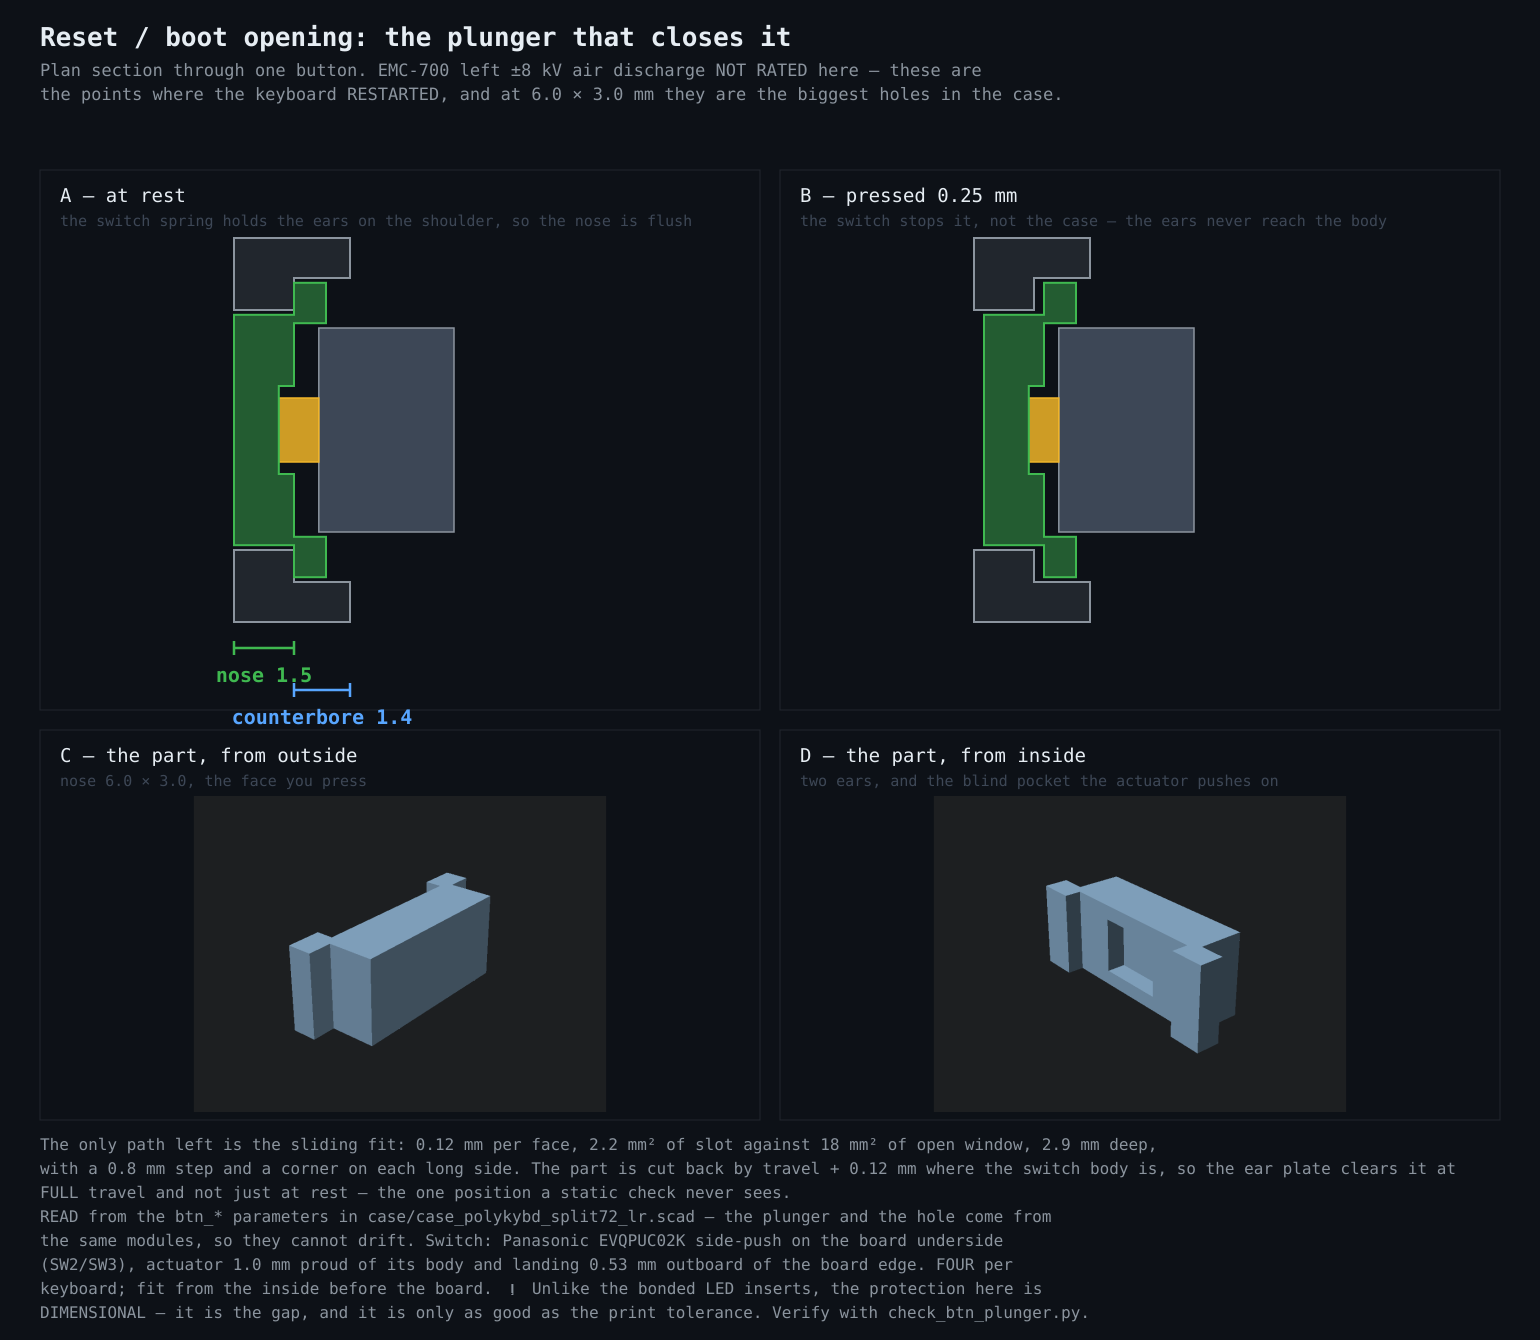
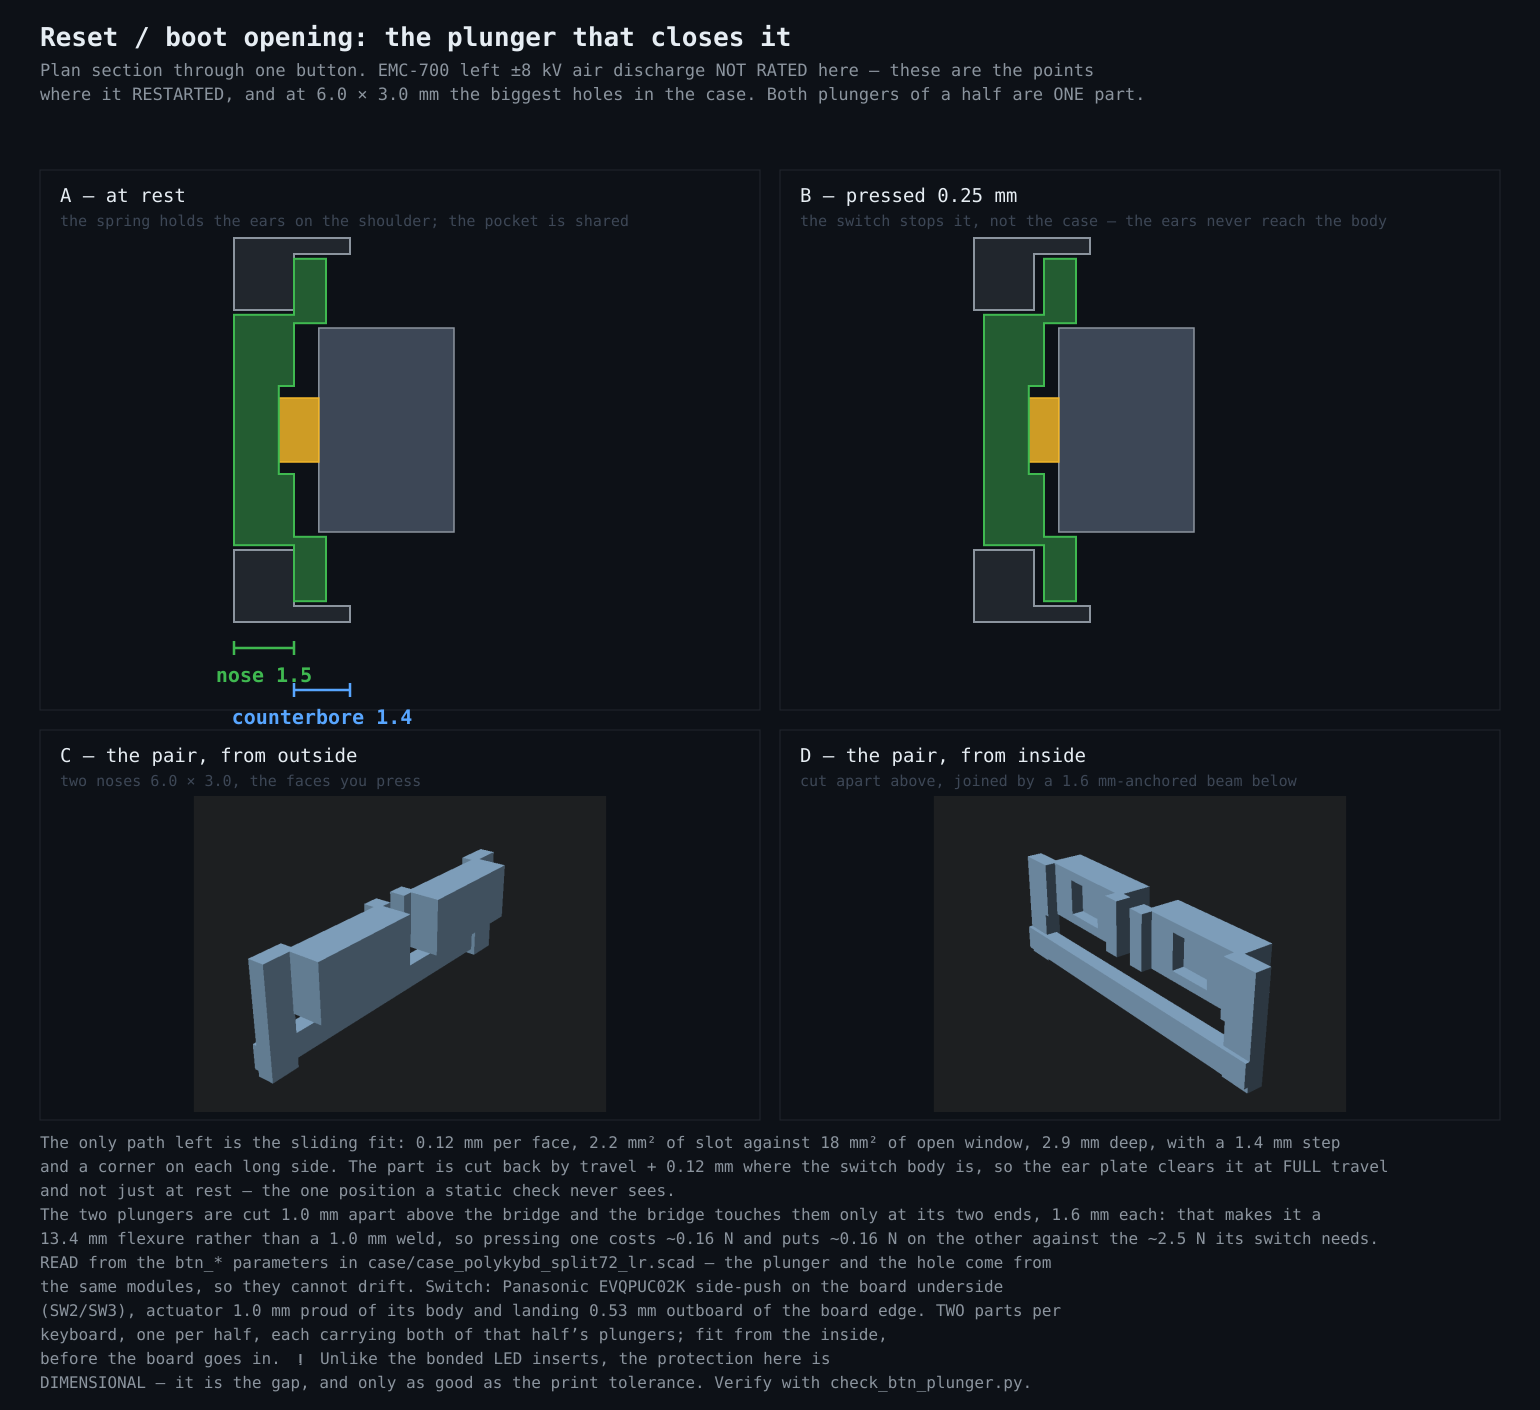
Case: bigger counterbore, and both plungers as one bridged part
Three changes to the reset/boot plungers.

The counterbore is bigger: ears 0.8 -> 1.4 a side, which more than
doubles the retention (6.7 mm3 of interference when pushed out, against
2.3). At that width the two stadiums - 8.8 mm on a 7.8 mm pitch - merge
into one pocket, which is deliberate and is what makes the third change
possible.

It also reaches 2.6 mm BELOW the opening. Downward only: the opening's
top is already 0.6 mm above the ledge the board rests on, so growing it
upward would undercut the board support, while below it there is 7 mm of
ledge doing nothing.

And both plungers of a half are now ONE part, joined along the bottom of
that merged pocket, so they go in together - two parts per keyboard
instead of four loose ones, each impossible to fit the wrong way round.

The bridge has to be a flexure and not a weld, because reset and boot
must work independently: pressing both at once is the RP2040 bootloader
gesture. The two plungers sit 1.0 mm apart, so a bridge between them
would couple them rigidly; instead it runs along the bottom and is
attached only at the two outer ends, 1.6 mm each, which makes it a
fixed-guided beam of 13.4 mm. At E = 2500 MPa that is 0.16 N of extra
press force and 8.4 MPa of bending stress - against ~2.5 N to actuate the
other switch and ~65 MPa flexural strength, so 16x and 8x. The ears are
still cut 1.0 mm apart even though the pocket behind them is continuous.

E and the flexural strength are material properties the model cannot
[…]

diff --git a/RoHS/btn-plunger.py b/RoHS/btn-plunger.py
@@ -4,9 +4,9 @@ REPO = subprocess.run(['git','rev-parse','--show-toplevel'], cwd='/home/user/Pol
 sys.path.insert(0, f'{REPO}/.claude/skills/explain-geometry-figure')
 from figlib import Fig, C
 
-# Two 900x690 OpenSCAD renders of parts/case/btn_plungers.scad (part="one").
-# Build artefacts, not committed - point RENDERS at wherever they were made.
-#   pG outside  14,-17,11,0,0,0      pH inside  -14,-17,11,0,0,0
+# Two 900x690 OpenSCAD renders of the exported btn_plungers.stl, recentred on
+# the pair. Build artefacts, not committed - point RENDERS at where they were
+# made.  pG outside 20,-26,16,0,0,0      pH inside -20,-26,16,0,0,0
 S = os.environ.get('RENDERS', '/tmp/btn-renders')
 
 # ---- geometry, READ from the case parameters -------------------------------
@@ -21,6 +21,8 @@ def P(name):
 
 wall, clr, ledge = P('case_wall_thickness'), P('pcb_clearance'), P('pcb_edge_width')
 gap, ear, ear_t = P('btn_slide_gap'), P('btn_ear'), P('btn_ear_t')
+under, sep = P('btn_under'), P('btn_sep')
+br_t, br_h, post = P('btn_bridge_t'), P('btn_bridge_h'), P('btn_post')
 travel, act_reach = P('btn_travel'), P('btn_act_reach')
 body_front, body_w, act_w = P('btn_body_front'), P('btn_body_w'), P('btn_act_w')
 
@@ -37,10 +39,10 @@ print(f'  nose {IN_HI - OUT:.2f} long, ears {ear_t} thick, pocket {act_reach} de
 print(f'  actuator tip at {ACT:+.2f}, switch body front at {BODY:+.2f}, travel {travel}')
 print(f'  gap area {2 * (W + 3.0) * gap:.2f} mm2 against {W * 3.0:.1f} mm2 open')
 
-f = Fig(1540, 1340)
+f = Fig(1540, 1410)
 f.title('Reset / boot opening: the plunger that closes it',
-        'Plan section through one button. EMC-700 left ±8 kV air discharge NOT RATED here — these are',
-        'the points where the keyboard RESTARTED, and at 6.0 × 3.0 mm they are the biggest holes in the case.')
+        'Plan section through one button. EMC-700 left ±8 kV air discharge NOT RATED here — these are the points',
+        'where it RESTARTED, and at 6.0 × 3.0 mm the biggest holes in the case. Both plungers of a half are ONE part.')
 
 
 EXT = 4.8      # how much case to draw either side of the opening
@@ -81,7 +83,7 @@ def draw(A, dx, show_dims):
 
 SC = 40
 f.panel(40, 170, 720, 540, 'A — at rest',
-        'the switch spring holds the ears on the shoulder, so the nose is flush')
+        'the spring holds the ears on the shoulder; the pocket is shared')
 A = Fig.frame(scale=SC, ox=300, oy=430)
 draw(A, 0.0, True)
 
@@ -90,21 +92,27 @@ f.panel(780, 170, 720, 540, f'B — pressed {travel} mm',
 B = Fig.frame(scale=SC, ox=1040, oy=430)
 draw(B, travel, False)
 
-f.panel(40, 730, 720, 390, 'C — the part, from outside', 'nose 6.0 × 3.0, the face you press')
+f.panel(40, 730, 720, 390, 'C — the pair, from outside',
+        'two noses 6.0 × 3.0, the faces you press')
 f.image(f'{S}/pG.png', 70, 796, 660, 316, clip=(40, 730, 720, 390))
-f.panel(780, 730, 720, 390, 'D — the part, from inside',
-        'two ears, and the blind pocket the actuator pushes on')
+f.panel(780, 730, 720, 390, 'D — the pair, from inside',
+        f'cut apart above, joined by a {post} mm-anchored beam below')
 f.image(f'{S}/pH.png', 810, 796, 660, 316, clip=(780, 730, 720, 390))
 
 f.footer(f'The only path left is the sliding fit: {gap} mm per face, {2*(W+3.0)*gap:.1f} mm² of slot against '
-         f'{W*3.0:.0f} mm² of open window, {IN_LO-OUT:.1f} mm deep,',
-         f'with a {ear} mm step and a corner on each long side. The part is cut back by travel + {gap} mm where '
-         'the switch body is, so the ear plate clears it at',
-         'FULL travel and not just at rest — the one position a static check never sees.',
+         f'{W*3.0:.0f} mm² of open window, {IN_LO-OUT:.1f} mm deep, with a {ear} mm step',
+         'and a corner on each long side. The part is cut back by travel + '
+         f'{gap} mm where the switch body is, so the ear plate clears it at FULL travel',
+         'and not just at rest — the one position a static check never sees.',
+         f'The two plungers are cut {sep} mm apart above the bridge and the bridge touches them only at its two '
+         f'ends, {post} mm each: that makes it a',
+         f'13.4 mm flexure rather than a 1.0 mm weld, so pressing one costs ~0.16 N and puts ~0.16 N on the other '
+         'against the ~2.5 N its switch needs.',
          'READ from the btn_* parameters in case/case_polykybd_split72_lr.scad — the plunger and the hole come from',
          'the same modules, so they cannot drift. Switch: Panasonic EVQPUC02K side-push on the board underside',
-         '(SW2/SW3), actuator 1.0 mm proud of its body and landing 0.53 mm outboard of the board edge. FOUR per',
-         'keyboard; fit from the inside before the board. ⚠ Unlike the bonded LED inserts, the protection here is',
-         'DIMENSIONAL — it is the gap, and it is only as good as the print tolerance. Verify with check_btn_plunger.py.')
+         '(SW2/SW3), actuator 1.0 mm proud of its body and landing 0.53 mm outboard of the board edge. TWO parts per',
+         'keyboard, one per half, each carrying both of that half\u2019s plungers; fit from the inside,',
+         'before the board goes in. ⚠ Unlike the bonded LED inserts, the protection here is',
+         'DIMENSIONAL — it is the gap, and only as good as the print tolerance. Verify with check_btn_plunger.py.')
 f.save(f'{REPO}/RoHS/btn-plunger.svg'); f.png()
 print('figure written')

diff --git a/parts/case/check_btn_plunger.py b/parts/case/check_btn_plunger.py
@@ -50,6 +50,15 @@ def param(name):
     return float(m.group(1))
 
 
+def pair(name):
+    """A two-element list parameter, e.g. btn_c = [ 83.69, 91.49 ];"""
+    src = open(os.path.join(HERE, CASE_SCAD), encoding='utf-8').read()
+    m = re.search(rf'^{name}\s*=\s*\[\s*([-0-9.]+)\s*,\s*([-0-9.]+)\s*\]\s*;', src, re.M)
+    if not m:
+        raise SystemExit(f'{name} not found in {CASE_SCAD}')
+    return float(m.group(1)), float(m.group(2))
+
+
 def load_stl(path):
     tris, cur = [], []
     for ln in open(path, encoding='ascii', errors='replace'):
@@ -142,6 +151,59 @@ def main():
     whole = run_scad('translate([%f,0,0]) btn_plunger();' % -travel)
     check(abs(clash - whole) <= EPS, 'it clears the switch body at full travel',
           f'{whole - clash:.6f} mm3 of the part is inside the switch envelope')
+
+    # --- the bridge -------------------------------------------------------
+    # The two plungers ship as ONE part so they fit in a single go, which only
+    # works if the thing joining them is a FLEXURE and not a weld: reset and
+    # boot have to work independently (pressing both at once is the RP2040
+    # bootloader gesture). Two things make it one, and both are measured here
+    # rather than argued - the plungers must be cut apart above the bridge, and
+    # the bridge must touch them only at its two ends.
+    c0, c1 = pair('btn_c')
+    # ⚠ btn_z0 is an EXPRESSION in the scad (pcb_edge_height - 0.4), so it is
+    # recomputed here rather than read; param() only sees numeric literals.
+    z0, h = param('pcb_edge_height') - 0.4, param('btn_h')
+    post, half = param('btn_post'), 0.5 + param('btn_r') + param('btn_ear')
+    mid = (c0 + c1) / 2
+    # a thin slab on the separation plane, over the plungers' own height
+    sep = param('btn_sep')
+    slab = (f'translate([0,0,{z0 - 0.2}]) linear_extrude({h + 0.4}) '
+            f'translate([0,{mid}]) square([600,{sep - 0.01}], center=true)')
+    joined = run_scad(f'intersection() {{ btn_plunger(); {slab}; }}')
+    check(joined <= EPS,
+          f'the two plungers are cut apart above the bridge ({sep} mm)',
+          f'{joined:.6f} mm3 bridging them at the separation plane')
+    # ⚠ control for BOTH slab checks: the counterbore is continuous across that
+    # plane, so if the slab were mislaid or the boolean broken this reads 0 too.
+    ctrl = run_scad(f'intersection() {{ btn_counterbore(); {slab}; }}')
+    check(ctrl > 1.0, 'control: the slab does find the counterbore there',
+          f'{ctrl:.3f} mm3')
+
+    # and a slab between the bridge's top and the plungers' bottom, in the span
+    # between the posts: anything here is the bridge touching what it must not.
+    bz = z0 - param('btn_under') + 0.4 + param('btn_bridge_h')
+    span_lo, span_hi = c0 - half + post, c1 + half - post
+    free = run_scad(f'intersection() {{ btn_plunger(); '
+                    f'translate([0,0,{bz + 0.05}]) linear_extrude({z0 - bz - 0.1}) '
+                    f'translate([0,{mid}]) square([600,{span_hi - span_lo}], center=true); }}')
+    check(free <= EPS, 'the bridge is free of them between its posts',
+          f'{free:.6f} mm3 of contact along the span')
+
+    # The flexure, from the geometry rather than from intent. E and the flexural
+    # strength are material properties this cannot measure, so the numbers are
+    # REPORTED with the assumption named, not asserted.
+    span = span_hi - span_lo
+    t, bh = param('btn_bridge_t'), param('btn_bridge_h')
+    E = 2500.0            # MPa, a typical SLA resin
+    F = 12 * E * (bh * t ** 3 / 12.0) * travel / span ** 3
+    sig = 6 * E * (t / 2) * travel / span ** 2
+    print()
+    print(f'  NOTE      bridge: {span:.2f} mm free span, {t} x {bh} mm section, '
+          f'{travel} mm deflection.')
+    print(f'            At E = {E:.0f} MPa that is {F:.2f} N of extra force and '
+          f'{sig:.1f} MPa of bending stress,')
+    print(f'            against ~2.5 N to actuate the other switch and ~65 MPa '
+          f'flexural strength.')
 
     # What is left as an ESD path, reported not asserted.
     print()

diff --git a/RoHS/CE-document-status.md b/RoHS/CE-document-status.md
@@ -783,11 +783,49 @@ flush — **the nose length is not a free choice**, it is the wall thickness.
 | | |
 |---|---|
 | Opening | **6.0 × 3.0 mm**, 2.9 mm deep (`btn_r` = 2.5 offset on a ~1.0 mm stroke) |
-| Counterbore | 7.6 mm (`btn_ear` = 0.8 a side), in the ledge only |
+| Counterbore | **8.8 mm** (`btn_ear` = 1.4 a side) **and 2.6 mm below** the opening (`btn_under`), in the ledge only |
 | Sliding fit | **0.12 mm** per face (`btn_slide_gap`) |
 | Travel | **0.25 mm** (`btn_travel`), limited by the switch, never by the case |
-| The part | 7.4 × 2.3 × 2.8 mm, **30.7 mm³**; four per keyboard |
+| The part | 16.4 × 2.5 × 5.4 mm, **80.9 mm³** — **both** plungers of a half, **two per keyboard** |
 | **Remaining ESD path** | **2.2 mm² of 0.12 mm slot**, 2.9 mm deep, with a step and a corner on each long side — against **18 mm² wide open** |
+
+✅ **Both plungers of a half are ONE part, so they fit in a single go** (2026-10-29,
+on review of the first version). At `btn_ear` 1.4 the two counterbore stadiums —
+8.8 mm wide on a 7.8 mm pitch — **merge into one pocket**, and extending it
+2.6 mm **downward** (never upward: the opening's top is already 0.6 mm above the
+ledge the board rests on) makes room along the bottom for a bridge. The result
+is two parts per keyboard instead of four loose ones, each impossible to fit the
+wrong way round, and the retention more than doubled (6.7 mm³ of interference
+when pushed out, against 2.3).
+
+⚠ **The bridge has to be a FLEXURE, not a weld — reset and boot must work
+independently, because pressing both at once is the RP2040 bootloader gesture.**
+The two plungers sit only **1.0 mm** apart, so a bridge *between* them would
+couple them rigidly. Instead it runs along the bottom of the merged pocket and
+is attached **only at the two outer ends** (`btn_post` = 1.6 mm each), which
+makes it a fixed-guided beam of **13.4 mm** rather than 1.0 mm. The ears are
+still cut apart (`btn_sep` = 1.0) even though the pocket behind them is one.
+
+| the flexure | |
+|---|---|
+| Free span / section | **13.40 mm** / 0.8 × 1.2 mm (0.8 is the print service's floor) |
+| Extra force to press a button | **0.16 N** at E = 2500 MPa |
+| Force it puts on the OTHER plunger | **0.16 N**, against the **~2.5 N** its switch needs — 16× |
+| Peak bending stress | **8.4 MPa**, against ~65 MPa flexural strength — 8× |
+
+⚠ **Three features sit EXACTLY on the print service's 0.8 mm floor** — the ear
+thickness, the bridge section and the posts. The vendor refuses *below* 0.8, so
+this is legal with zero margin. Taking all three to 0.9 costs 0.07 N of extra
+press force and 1 MPa of bending stress (both still an order of magnitude inside
+their limits) and is a one-line change; it has not been made because nobody has
+printed one yet and the floor is the floor.
+
+⚠ **E and the flexural strength are material properties the model cannot
+measure**, so `check_btn_plunger.py` *reports* those four numbers with the
+assumption named and *asserts* only the geometry: that the plungers are cut
+apart above the bridge, and that the bridge touches them nowhere along its span.
+Both of those have a control (the counterbore is continuous across the same
+plane) so a broken boolean cannot read as a pass.
 
 ⚠ **Read the trade honestly, and put it in the file this way.** A bonded insert's
 protection is **structural** — there is no gap. A plunger's is **dimensional** —
@@ -801,11 +839,18 @@ drives **0.25 mm into the switch** when pressed — the one position a static fi
 check never looks at. `btn_switch_clear(extra)` carries the allowance; the
 checker calls it with `0` so it still measures the *real* envelope.
 
-⚠ **The counterbore widens the opening in PLAN only.** Growing it vertically
-would cut into the ledge the board rests on — the opening's top is already
-0.6 mm above the ledge — so the step the ears catch on is on the two long sides
-and there is **none top or bottom**. That is also where the ESD path is
-shortest: 2.9 mm straight through, no corner.
+⚠ **The merged pocket takes the 1.8 mm of ledge that used to sit BETWEEN the
+two openings.** The board's edge support there goes from two 6.0 mm gaps with an
+island between them to one **16.6 mm** gap. Nothing screws the board down within
+37 mm of that spot either way, so it already spanned most of it — and the
+plunger loads the board *horizontally*, into the switch, not downwards. Recorded
+because it is a real change to the board support and not visible from the part.
+
+⚠ **The counterbore grows sideways and DOWNWARD, never up.** The opening's top
+is already 0.6 mm above the ledge the board rests on, so growing it upward would
+undercut the board support. The step the ears catch on is therefore on the two
+long sides and the bottom, and **not** on the top — which is also where the ESD
+path is shortest: 2.9 mm straight through, no corner.
 
 ⚠ **The switch's z was read off the footprint's fab outline, not a datasheet**,
 so the actuator pocket is deliberately oversized (2.2 × 1.8 against a ~1.6 × 1.0

diff --git a/parts/README.md b/parts/README.md
@@ -24,7 +24,7 @@ parts/
 | Case, right side | `export/case/right_side_case.3mf`, `right_side_spacer.3mf` | `case/right_side.scad` |
 | Spacer | `export/case/spacer.stl` — or `spacer_diffuser_frame.stl` when the LED diffuser frame is fitted (it is notched for the frame's web on **both** faces, so one part serves either half) | `right_spacer()` in `case/case_polykybd_split72_lr.scad` |
 | Status-LED inserts (**EMC**) | Normally **nothing to print separately** — three of them ride on each `diffuser_frame_{left,right}.stl` as one chained row on V-scored webs; snap the row off, fold the three apart and bond them in. `case/check_led_insert.py` verifies the part still seats with the broken-off web stubs attached `export/case/led_inserts.stl` is the standalone fallback: all **six** chained in a row, 52.2 × 4.0 × 2.9 mm, clear resin. `-D part="one"\|"three"` builds fewer | `case/led_inserts.scad` over the `led_*` modules in `case/case_polykybd_split72_lr.scad` |
-| Reset/boot plungers (**EMC**) | `export/case/btn_plungers.stl` — **four** per keyboard (two per half, same part both sides). A rigid plunger that fills the 6.0 × 3.0 mm service-button hole on a sliding fit and is retained by two ears behind a counterbore; fit from the INSIDE before the board. `-D part="one"` builds a single one. Verify with `case/check_btn_plunger.py` | `case/btn_plungers.scad` over the `btn_*` modules in `case/case_polykybd_split72_lr.scad` |
+| Reset/boot plungers (**EMC**) | `export/case/btn_plungers.stl` — **two** per keyboard, one per half, each carrying **both** of that half's plungers on a flexure so they fit in one go. Each fills a 6.0 × 3.0 mm service-button hole on a sliding fit, retained by ears behind a counterbore; fit from the INSIDE before the board. Verify with `case/check_btn_plunger.py` | `case/btn_plungers.scad` over the `btn_*` modules in `case/case_polykybd_split72_lr.scad` |
 | LED diffuser frame | `export/diffuser/diffuser_frame_{left,right}.stl` (`_4x` = four stacked per plate). From **r1.2** each frame also carries the half's **three status-LED inserts** as one chained row on V-scored webs, hung off the thumb branch's lower tip — break the row off before fitting the frame | `diffuser/` — **generated from the plate PCB**, see below |
 | LED diffuser, old generation | `export/diffuser/diff_v2.stl` (4 rings × 19 caps, 97 × 97 × 6.2 mm) | `diffuser/led_caps.scad` |
 | Keycap stems | `export/keycap_stem/keycap_stem_revAlpha_{1U,1U25}_{R1..R5,S1,S,S5}_10p.stl` | one file per plate in `keycap_stem/variants/`, over the shared `keycap_stem/keycap_stem.scad` |
